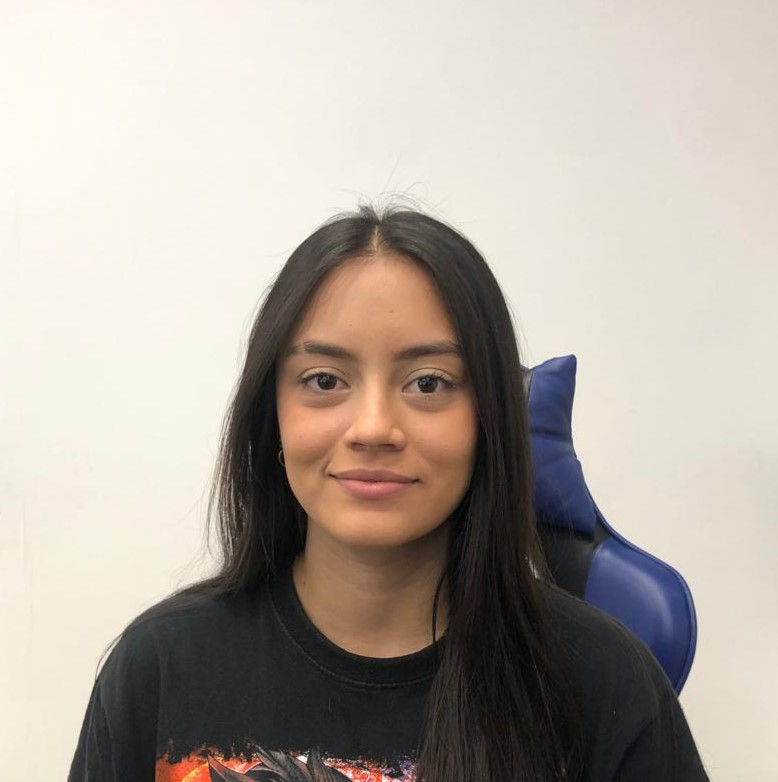
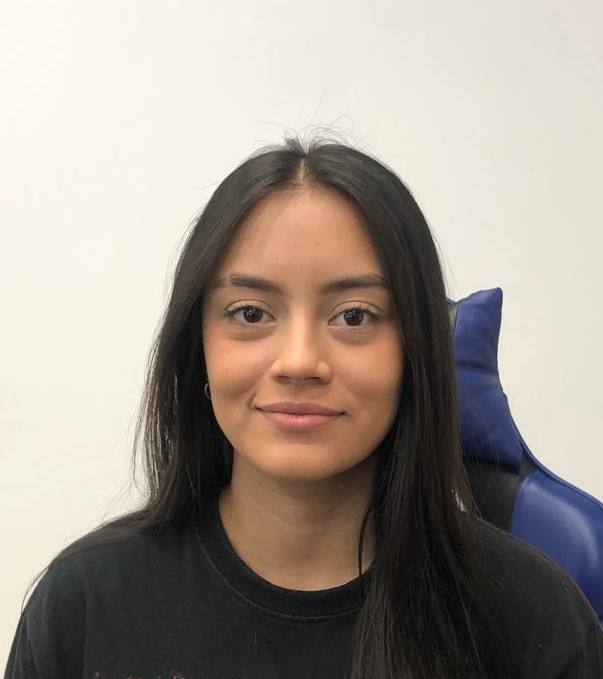
feat: :lipstick: update about us
update about us

Changed region(s): [[0.0, 0.1856, 1.0, 1.0]]

diff --git a/src/app/components/about-card/about-card.component.html b/src/app/components/about-card/about-card.component.html
@@ -1,34 +1,35 @@
-<div class="container mx-auto p-4 flex justify-center">
-    <div class="flex justify-center gap-4">
+<div class="container mx-auto h-screen flex items-center justify-center p-4">
+    <div class="grid grid-cols-1 sm:grid-cols-2 lg:grid-cols-3 gap-4">
       <!-- Card 1 -->
-      <div class="bg-white rounded-lg shadow-md overflow-hidden w-1/2 md:w-1/3 lg:w-1/3 xl:w-2/3" style="box-shadow: 0 0 10px rgba(0, 0, 0, 0.1);">
-        <div class="relative h-96 md:h-138 lg:h-160 xl:h-192">
-          <img src="../../../../public/juan pablo.jpg" alt="Foto del desarrollador 1" class="w-full object-cover h-full rounded-t-lg">
+      <div class="bg-white rounded-lg shadow-md overflow-hidden transform transition-transform hover:scale-105 hover:shadow-lg">
+        <div class="relative h-80 sm:h-96 md:h-100 lg:h-120 xl:h-140">
+          <img src="juan.jpg" alt="Foto del desarrollador 1" class="w-full object-cover h-full rounded-t-lg">
           <div class="absolute bottom-0 left-0 w-full h-1/3 bg-gradient-to-t from-black opacity-100">
             <p class="text-white text-lg font-bold absolute bottom-9 left-4">Juan Pablo Cárdenas González</p>
-            <p class="text-white text-lg  absolute bottom-3 left-4">Ingeniero Civíl</p>
+            <p class="text-white text-lg absolute bottom-3 left-4">Civil Engineer</p>
           </div>
         </div>
       </div>
       <!-- Card 2 -->
-      <div class="bg-white rounded-lg shadow-md overflow-hidden w-1/2 md:w-1/3 lg:w-1/3 xl:w-2/3" style="box-shadow: 0 0 10px rgba(0, 0, 0, 0.1);">
-        <div class="relative h-96 md:h-128 lg:h-160 xl:h-192">
-          <img src="../../../../public/busta.jpg" alt="Foto del desarrollador 2" class="w-full object-cover h-full rounded-t-lg">
+      <div class="bg-white rounded-lg shadow-md overflow-hidden transform transition-transform hover:scale-105 hover:shadow-lg">
+        <div class="relative h-80 sm:h-96 md:h-100 lg:h-120 xl:h-140">
+          <img src="andres.jpg" alt="Foto del desarrollador 2" class="w-full object-cover h-full rounded-t-lg">
           <div class="absolute bottom-0 left-0 w-full h-1/3 bg-gradient-to-t from-black opacity-100">
             <p class="text-white text-lg font-bold absolute bottom-9 left-4">Andrés Enrique Bustamante Acevedo</p>
-            <p class="text-white text-lg  absolute bottom-3 left-4">Ingeniero De Sistemas</p>
+            <p class="text-white text-lg absolute bottom-3 left-4">Systems Engineer</p>
           </div>
         </div>
       </div>
       <!-- Card 3 -->
-      <div class="bg-white rounded-lg shadow-md overflow-hidden w-1/2 md:w-1/3 lg:w-1/3 xl:w-2/3" style="box-shadow: 0 0 10px rgba(0, 0, 0, 0.1);">
-        <div class="relative h-96 md:h-128 lg:h-160 xl:h-192">
-          <img src="../../../../public/angeli.jpg" alt="Foto del desarrollador 3" class="w-full object-cover h-full rounded-t-lg">
+      <div class="bg-white rounded-lg shadow-md overflow-hidden transform transition-transform hover:scale-105 hover:shadow-lg">
+        <div class="relative h-80 sm:h-96 md:h-100 lg:h-120 xl:h-140">
+          <img src="angeli.jpg" alt="Foto del desarrollador 3" class="w-full object-cover h-full rounded-t-lg">
           <div class="absolute bottom-0 left-0 w-full h-1/3 bg-gradient-to-t from-black opacity-100">
             <p class="text-white text-lg font-bold absolute bottom-9 left-4">Angeli Nicole Corredor Rodríguez</p>
-            <p class="text-white text-lg  absolute bottom-3 left-4">Ingeniera De Sistemas</p>
+            <p class="text-white text-lg absolute bottom-3 left-4">Systems Engineer</p>
           </div>
         </div>
       </div>
     </div>
   </div>
+  

diff --git a/src/app/components/product-card/product-card.component.html b/src/app/components/product-card/product-card.component.html
@@ -1,5 +1,5 @@
 <main>
-    <section class="grid grid-cols-1 md:grid-cols-2 lg:grid-cols-5 gap-6 p-4">
+    <section class="grid grid-cols-1 md:grid-cols-2 lg:grid-cols-4 gap-3 p-2">
         <article class="bg-white shadow-md rounded p-12 w-full h-full">
             <img src="producto1.jpg" alt="Producto 1" class="w-full h-80 object-cover rounded-t">
             <h2 class="text-2xl font-bold mb-2">Producto 1</h2>

diff --git a/src/app/pages/customer-page/customer-page.component.html b/src/app/pages/customer-page/customer-page.component.html
@@ -1,4 +1,9 @@
-<div class="flex-grow">
-    <app-nav-bar></app-nav-bar>
-    <app-product-card></app-product-card>
+<div class="flex flex-auto w-full h-screen">
+    <app-sidebar></app-sidebar>
+
+    <div class="flex-grow">
+        <app-nav-bar></app-nav-bar>
+        <app-product-card></app-product-card>
+    </div>
+
 </div>

diff --git a/src/app/pages/about-us/about-us.component.html b/src/app/pages/about-us/about-us.component.html
@@ -1,4 +1,8 @@
-<div class="flex-grow">
-    <app-nav-bar></app-nav-bar>
-    <app-about-us></app-about-us>
+<div class="flex flex-auto w-full h-screen">
+    <app-sidebar></app-sidebar>
+
+    <div class="flex-grow">
+        <app-nav-bar></app-nav-bar>
+        <app-about-card></app-about-card>
+    </div>
 </div>
